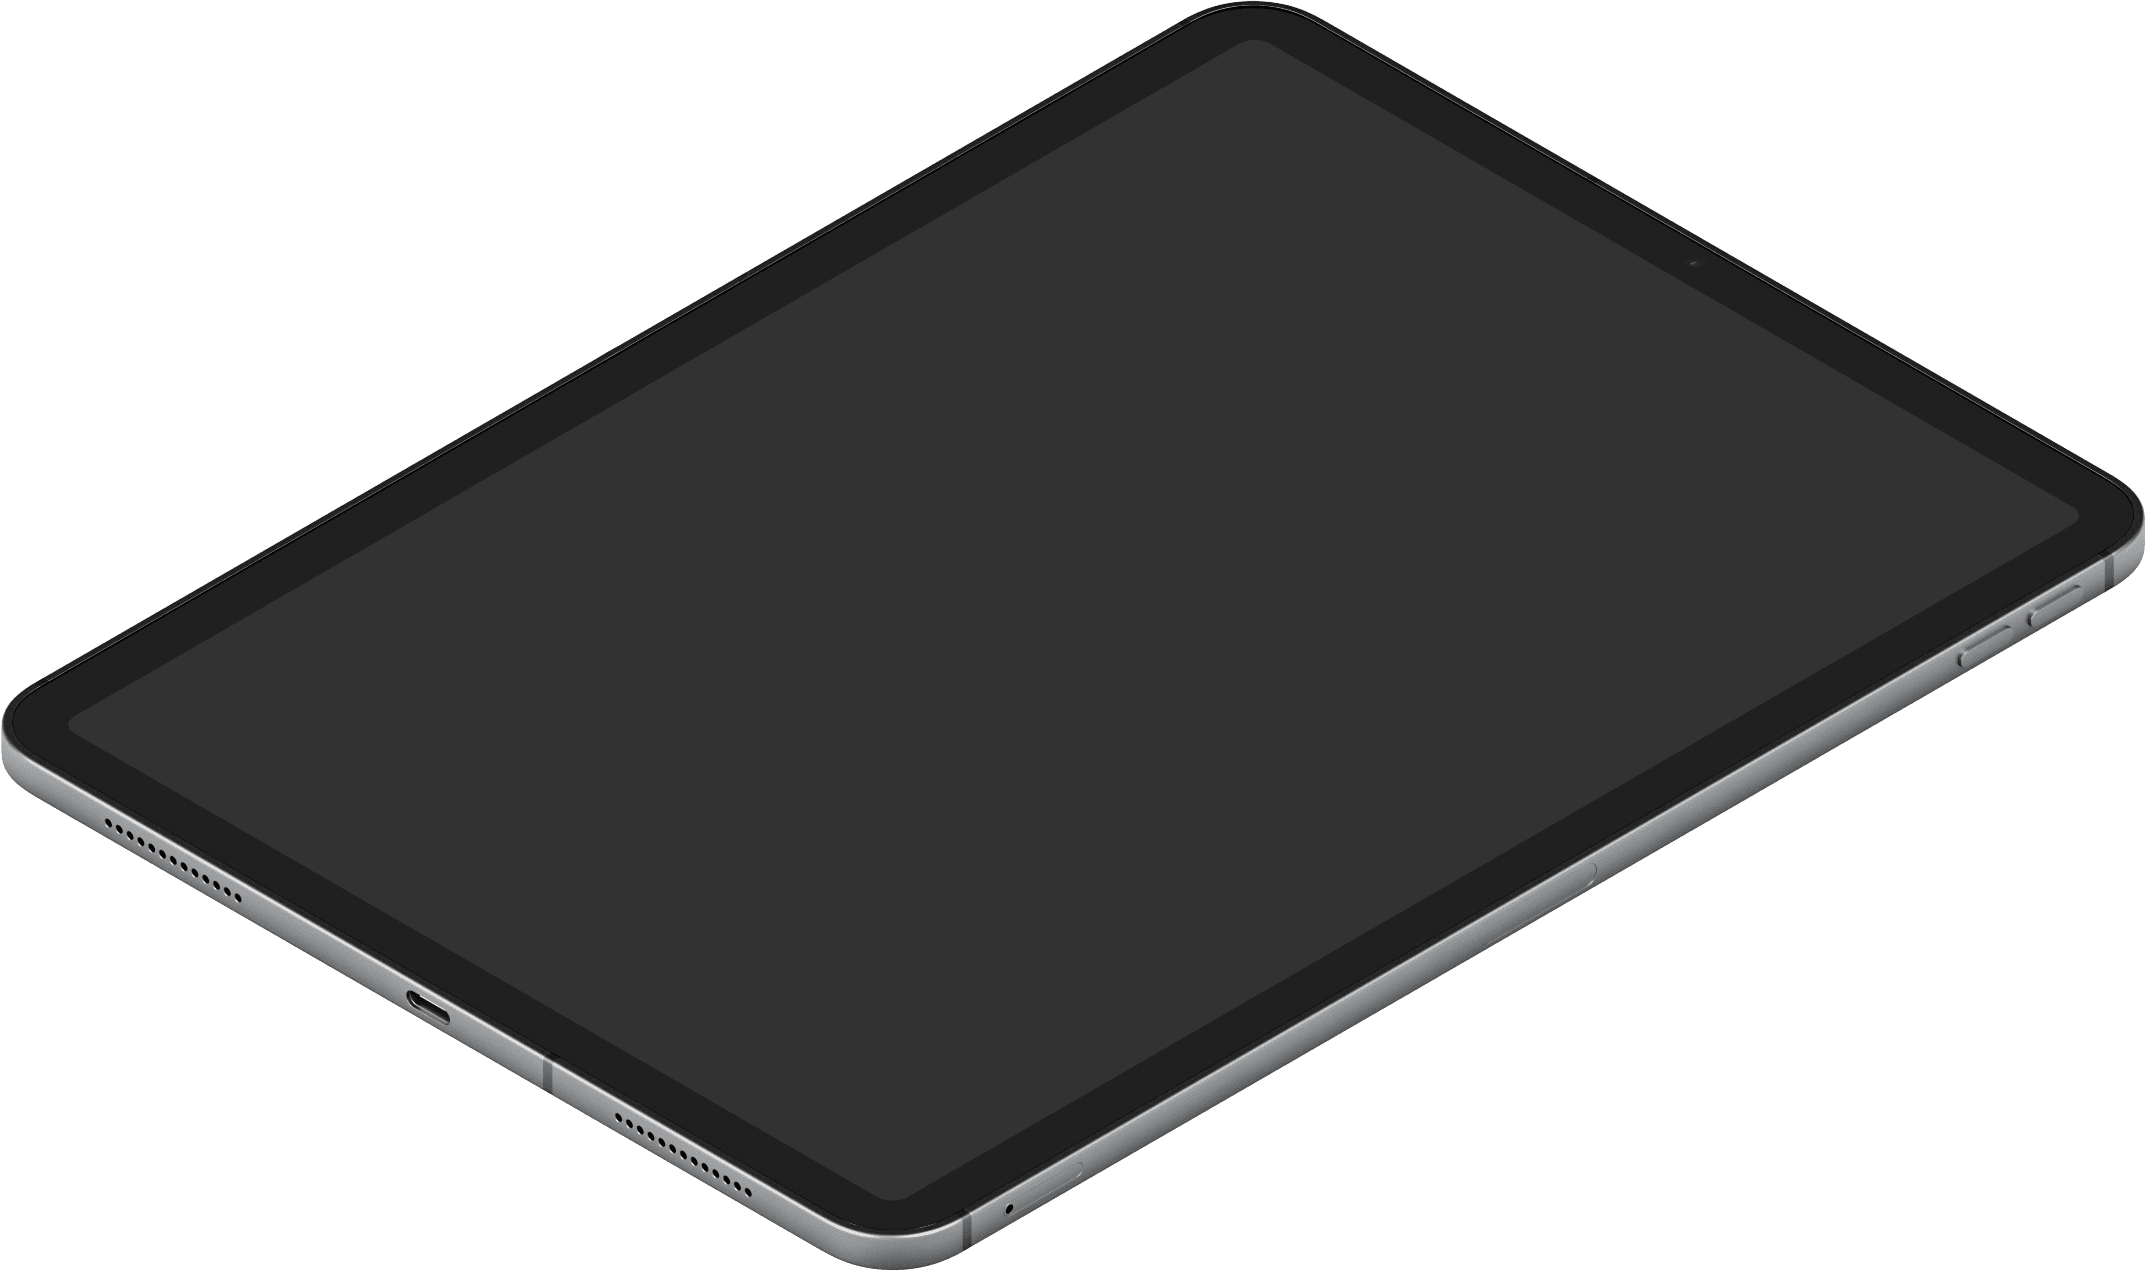
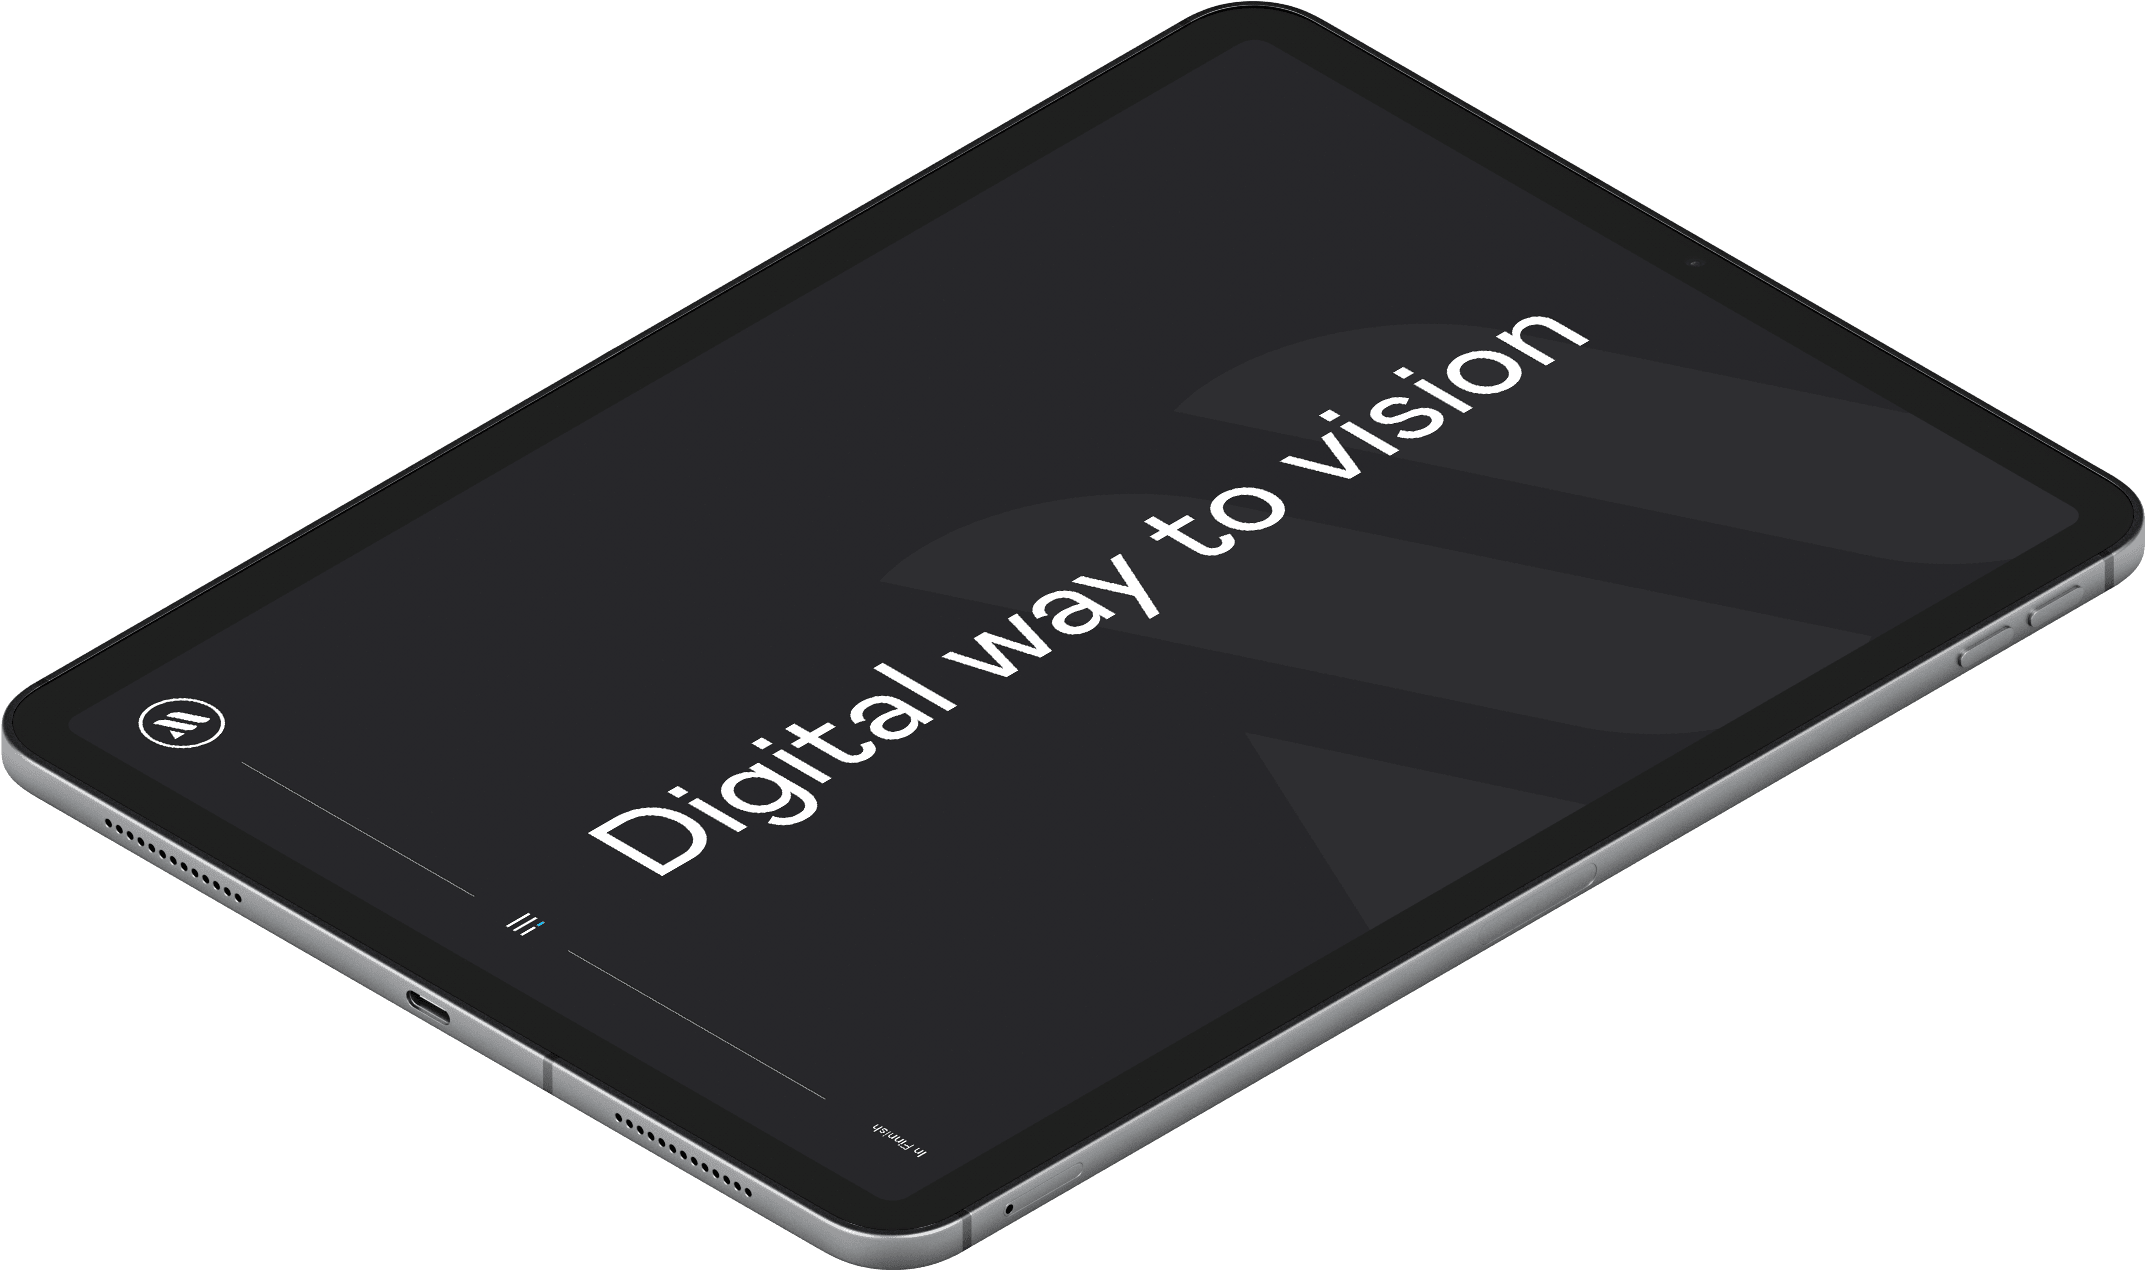
Mediasignal: Add new hero and initial transition

diff --git a/features/Project/Mediasignal/Hero.jsx b/features/Project/Mediasignal/Hero.jsx
@@ -1,5 +1,5 @@
 import { m } from 'framer-motion';
-import { SCROLL_SPEED } from '@/lib/config';
+import { SCROLL_SPEED, MQ } from '@/lib/config';
 import { getSitemap } from '@/lib/utility';
 import { Hero, HeroContent, figureBgVariants } from '@/components/Hero';
 import { figureInnerVariants } from './Hero.animations';
@@ -18,7 +18,7 @@ export const MediasignalHero = ({ onClick, ...props }) => {
       onClick={onClick}
       {...props}
     >
-      {({ transitionPre }) => {
+      {({ transitionPre, transitionInitial }) => {
         return (
           <div className="wrap grid -gap:l pl:0@until:l">
             <HeroContent
@@ -46,15 +46,20 @@ export const MediasignalHero = ({ onClick, ...props }) => {
               >
                 <m.div
                   className="Hero-figure-figure-inner"
+                  custom={{ enableInitial: transitionInitial }}
+                  {...(transitionInitial && {
+                    animate: 'animate',
+                    initial: 'initial',
+                  })}
                   variants={figureInnerVariants}
                 >
                   <Image
-                    alt="Mediasignal homepage in iPad"
+                    alt="Mediasignal homepage sketch in iPad"
                     draggable="false"
                     priority
-                    sizes="33vw"
+                    sizes={`${MQ.l} 70vw, 90vw`}
                     src={heroImage}
-                    quality="90"
+                    // quality="90"
                   />
                 </m.div>
               </figure>

diff --git a/features/Project/Mediasignal/Hero.animations.js b/features/Project/Mediasignal/Hero.animations.js
@@ -6,4 +6,11 @@ export const figureInnerVariants = {
     y: '8rem',
     transition: TRANS_PRIMARY,
   },
+  initial: ({ enableInitial = true } = {}) => {
+    if (!enableInitial) return;
+    return {
+      x: '0rem',
+      y: '0rem',
+    };
+  },
 };
